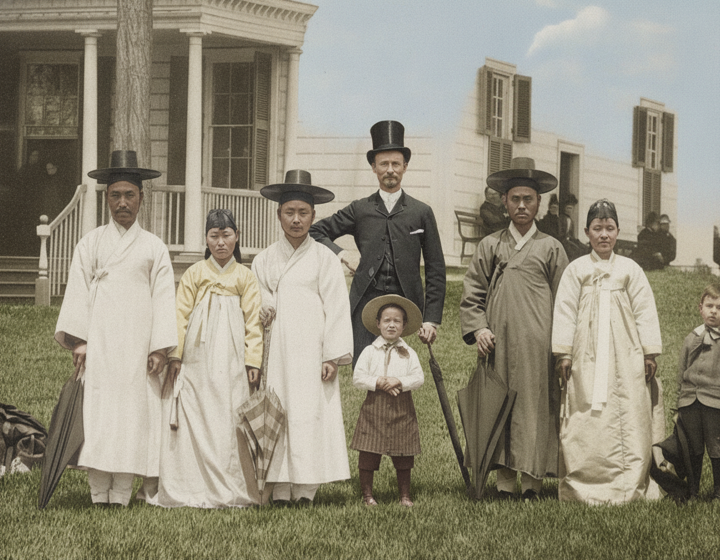
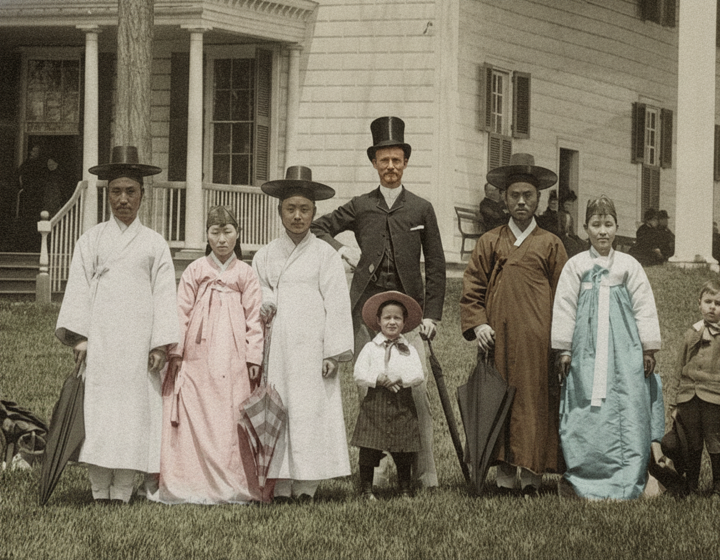
갤러리 컬러화를 '충실 컬러화 전용'으로 — 구도 보존(복원 과잉 제거)
배경 건물·인물이 사라지거나 없던 갓이 추가되던 문제(복원 과잉) → 프롬프트를
'colorization only, 내용·테두리 그대로, 추가/삭제/재구성 금지'로 전면 보수화.
재작업 3건(allen#1·avison#1·avison#2) 재생성·완료.

diff --git a/scripts/gallery-colorize.ts b/scripts/gallery-colorize.ts
@@ -22,14 +22,13 @@ const MODEL = process.env.GEMINI_IMAGE_MODEL || "gemini-2.5-flash-image";
 const DIR = path.join(process.cwd(), "public", "portraits", "gallery");
 
 const SCENE_PROMPT =
-  "Restore and naturally colorize this historical black-and-white or sepia photograph from the late 19th / early 20th century. " +
-  "CRITICAL: preserve the ENTIRE original composition and framing, and EVERY person/subject in it, exactly as they are — " +
-  "do NOT crop, do NOT remove or add any person or object, do NOT change anyone's identity, face, pose, clothing, expression, or the background/setting. " +
-  "Only repair scratches, dust, grain and blur, gently improve clarity, and add realistic, period-appropriate natural color (skin tones, fabrics, surroundings). " +
-  "The OUTPUT MUST BE IN FULL NATURAL COLOR — never leave it black-and-white, grayscale or sepia. Apply color UNIFORMLY and COMPLETELY across the ENTIRE image — every face, all skin, hair, clothing, objects and the whole background — NOT only the face or part of the image; no region may stay grey/sepia/uncolored. If the photo sits inside a printed page with a caption, crop out the surrounding paper and caption text so only the photograph itself remains. " +
-  "CONTEXT: these people lived in late-Joseon Korea (1880s–1930s). If anyone wears traditional Korean dress, render it AUTHENTICALLY: a round wide-brimmed black hat is a Korean 'gat' (갓, a translucent horsehair hat) — NOT a modern Western hat, bowler, fedora or derby; robes are white/ivory hanbok or durumagi — NOT a modern suit or dress shirt. Preserve the exact traditional garments and headwear; never modernize them. " +
-  "CRUCIAL: many subjects are WESTERN/foreign missionaries who are merely wearing Korean dress — keep their ACTUAL ethnicity and exact facial features unchanged (a Western/Caucasian face stays Western; do NOT make them look Korean). Only the clothing is Korean, not the person. " +
-  "Keep it photorealistic and historically faithful, not stylized. Output the full restored image at the same framing and aspect ratio.";
+  "Colorize this historical black-and-white or sepia photograph (late 19th / early 20th century Korea). " +
+  "THIS IS COLORIZATION ONLY — it is NOT reconstruction. You MUST keep the original composition and content byte-for-byte faithful: " +
+  "do NOT add, remove, move, duplicate or invent ANY person, face, object, building, wall, furniture or background element; do NOT crop, reframe, zoom or change the aspect ratio; KEEP the photo's borders/margins/vignette exactly as they are. " +
+  "Do NOT reconstruct, repaint or hallucinate missing/blurry areas — if a region is damaged or indistinct, leave its shapes as-is and simply add plausible color. You may gently reduce obvious scratches, dust spots and stray blotches, but never alter the actual content. " +
+  "Add realistic, natural, period-appropriate color to EVERYTHING — every face, all skin, hair, clothing, objects and the whole background. The OUTPUT MUST BE IN FULL NATURAL COLOR applied UNIFORMLY across the entire image; no region may stay grey/sepia/uncolored. " +
+  "Preserve every person's exact identity, ethnicity, face, pose, expression and clothing (a Western/Caucasian face stays Western; Korean stays Korean). If someone wears traditional Korean dress (gat hat / hanbok), keep those exact garments — do not modernize them and do not add a hat or dress to anyone who is not already wearing one. " +
+  "Output the SAME image — same framing, same content, same borders — only with color added.";
 
 type Entry = GalleryPhoto & { srcColor?: string };
 
